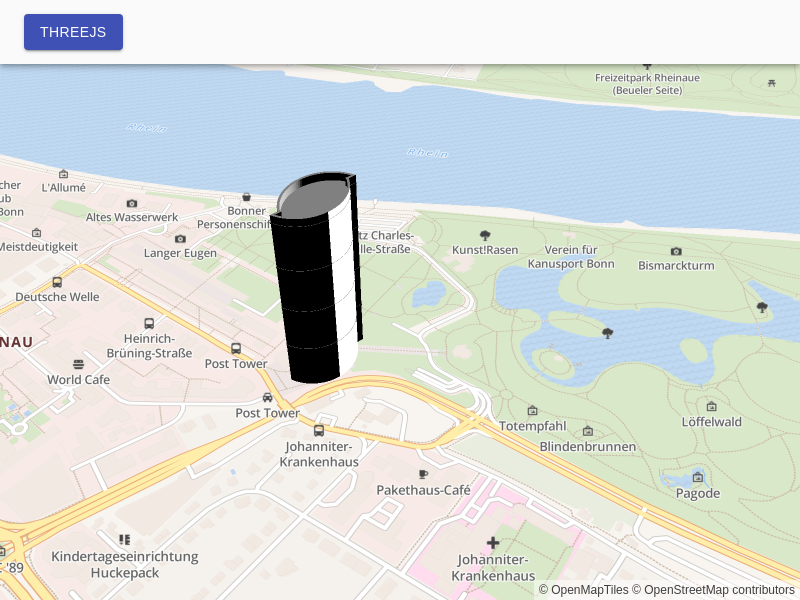
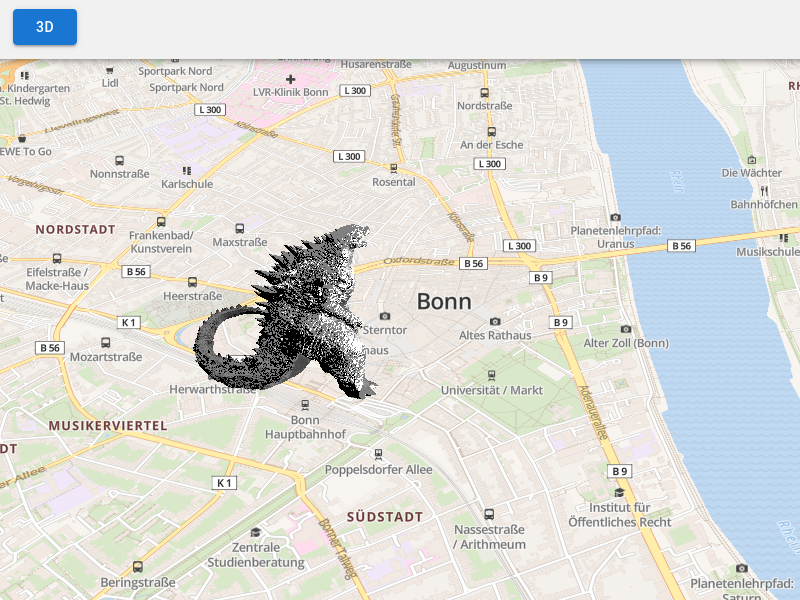
Removed 3d-model tower and added Godzilla.

diff --git a/src/components/MlThreeJsLayer/MlThreeJsLayer.js b/src/components/MlThreeJsLayer/MlThreeJsLayer.js
@@ -45,8 +45,13 @@ const MlThreeJsLayer = (props) => {
     initializedRef.current = true;
     mapRef.current = mapContext.getMap(props.mapId);
 
+    mapRef.current.setCenter([7.099771581806502, 50.73395746209983]);
+    mapRef.current.setZoom(15);
+    mapRef.current.setPitch(45);
+
     // parameters to ensure the model is georeferenced correctly on the map
-    var modelOrigin = [7.1300753566457304, 50.71596191210998];
+    var modelOrigin = [7.099771581806502, 50.73395746209983];
+    // 50.73395746209983, 7.099771581806502
     var modelAltitude = 0;
     var modelRotate = [Math.PI / 2, 90, 0];
 
@@ -92,11 +97,13 @@ const MlThreeJsLayer = (props) => {
         // use the three.js GLTF loader to add the 3D model to the three.js scene
         var loader = new GLTFLoader();
         loader.load(
-          "assets/3D/posttower.gltf",
-          //"/assets/3D/posttower_wh.gltf.glb",
+          "assets/3D/godzilla_simple.glb",
           //"https://docs.mapbox.com/mapbox-gl-js/assets/34M_17/34M_17.gltf",
           function (gltf) {
             this.scene.add(gltf.scene);
+            if (typeof props.onDone === "function") {
+              props.onDone();
+            }
           }.bind(this)
         );
         this.map = map;
@@ -150,9 +157,6 @@ const MlThreeJsLayer = (props) => {
     if (mapRef.current.getLayer(layerName)) {
       mapRef.current.setLayoutProperty(layerName, "visibility", "visible");
     }
-    mapRef.current.setCenter([7.130255969902919, 50.7143656091998]);
-    mapRef.current.setZoom(15);
-    mapRef.current.setPitch(45);
   }, [mapContext.mapIds, mapContext, props]);
 
   useEffect(() => {
